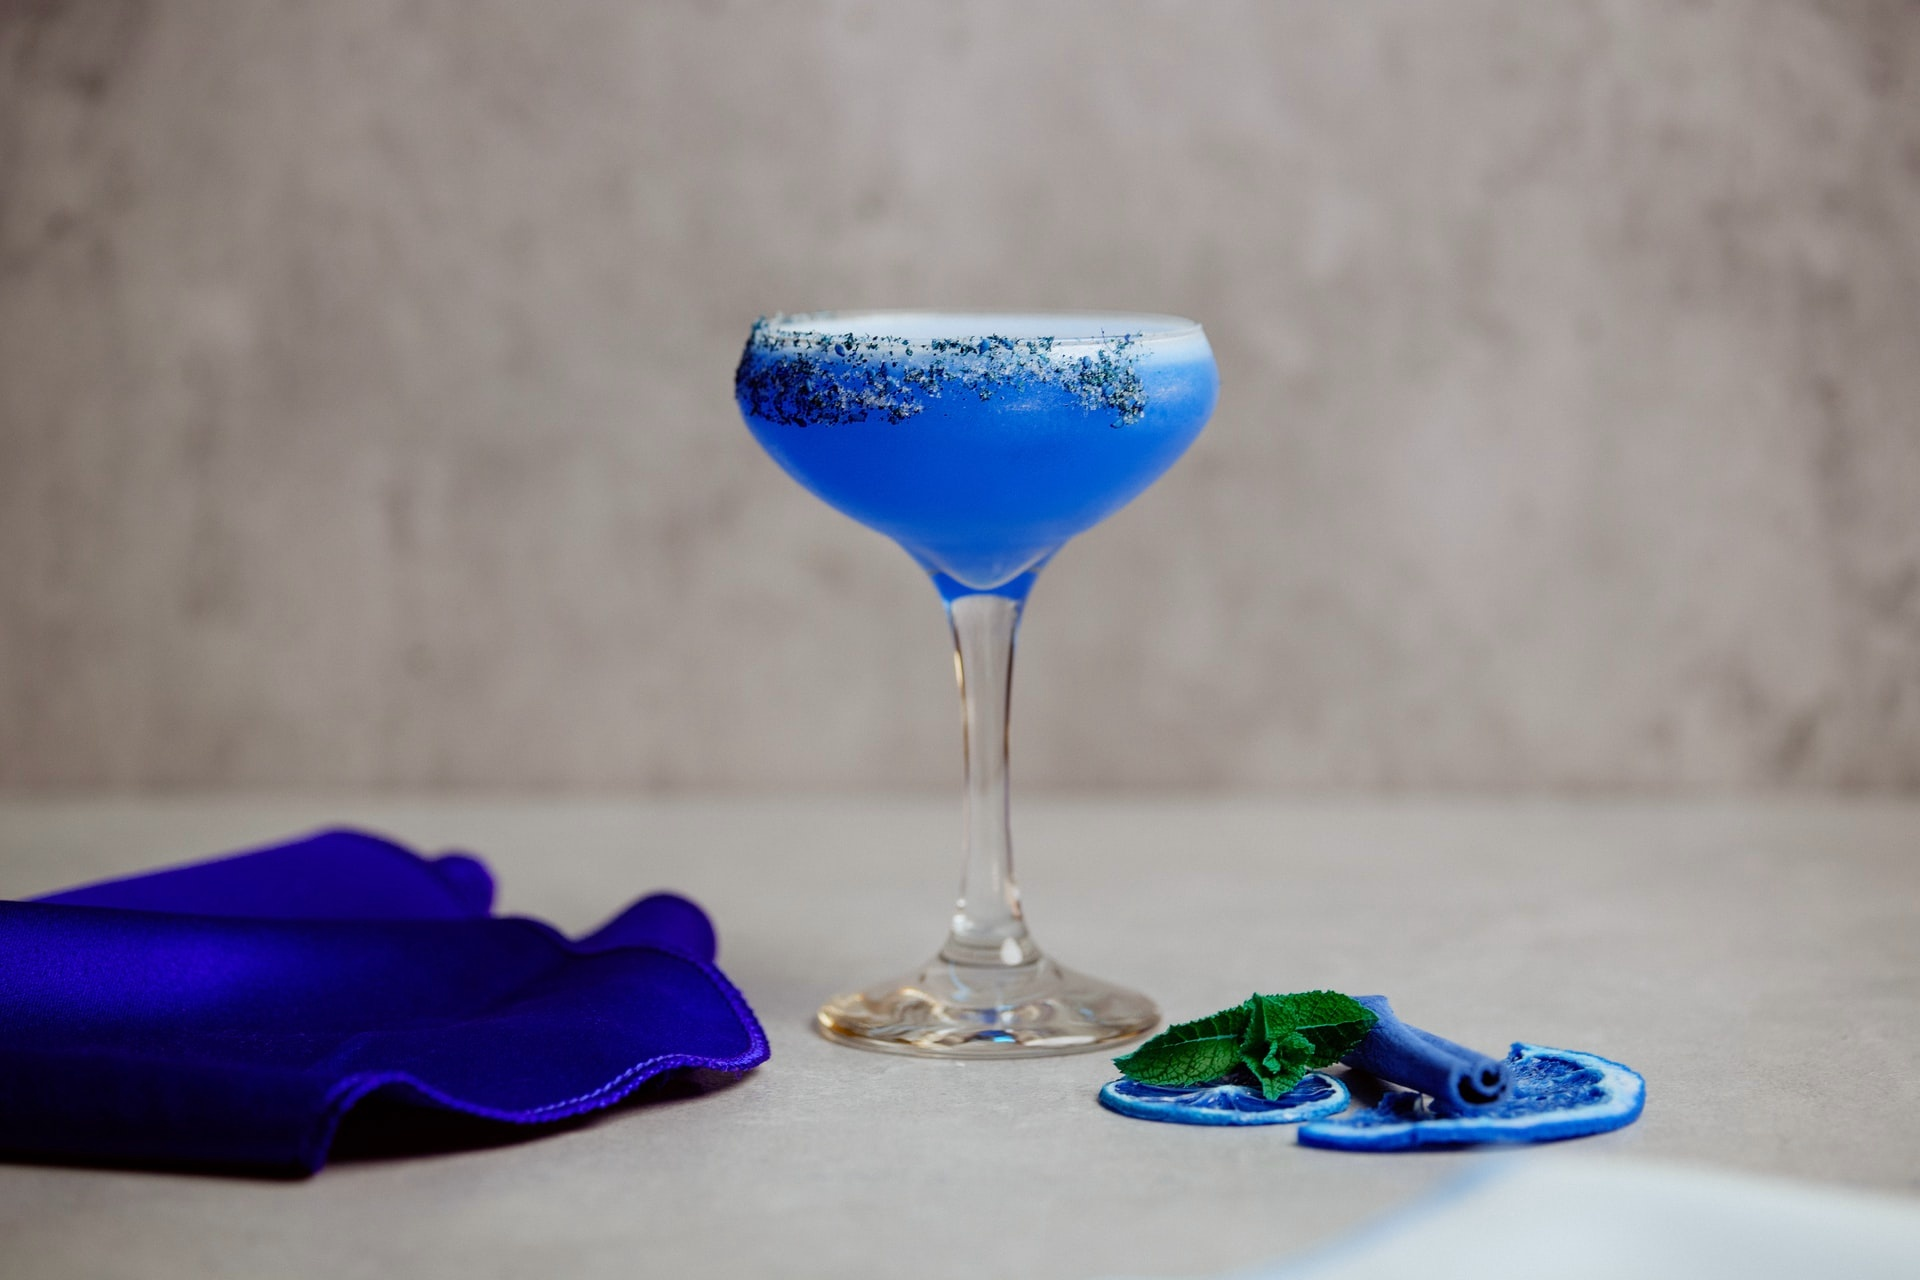
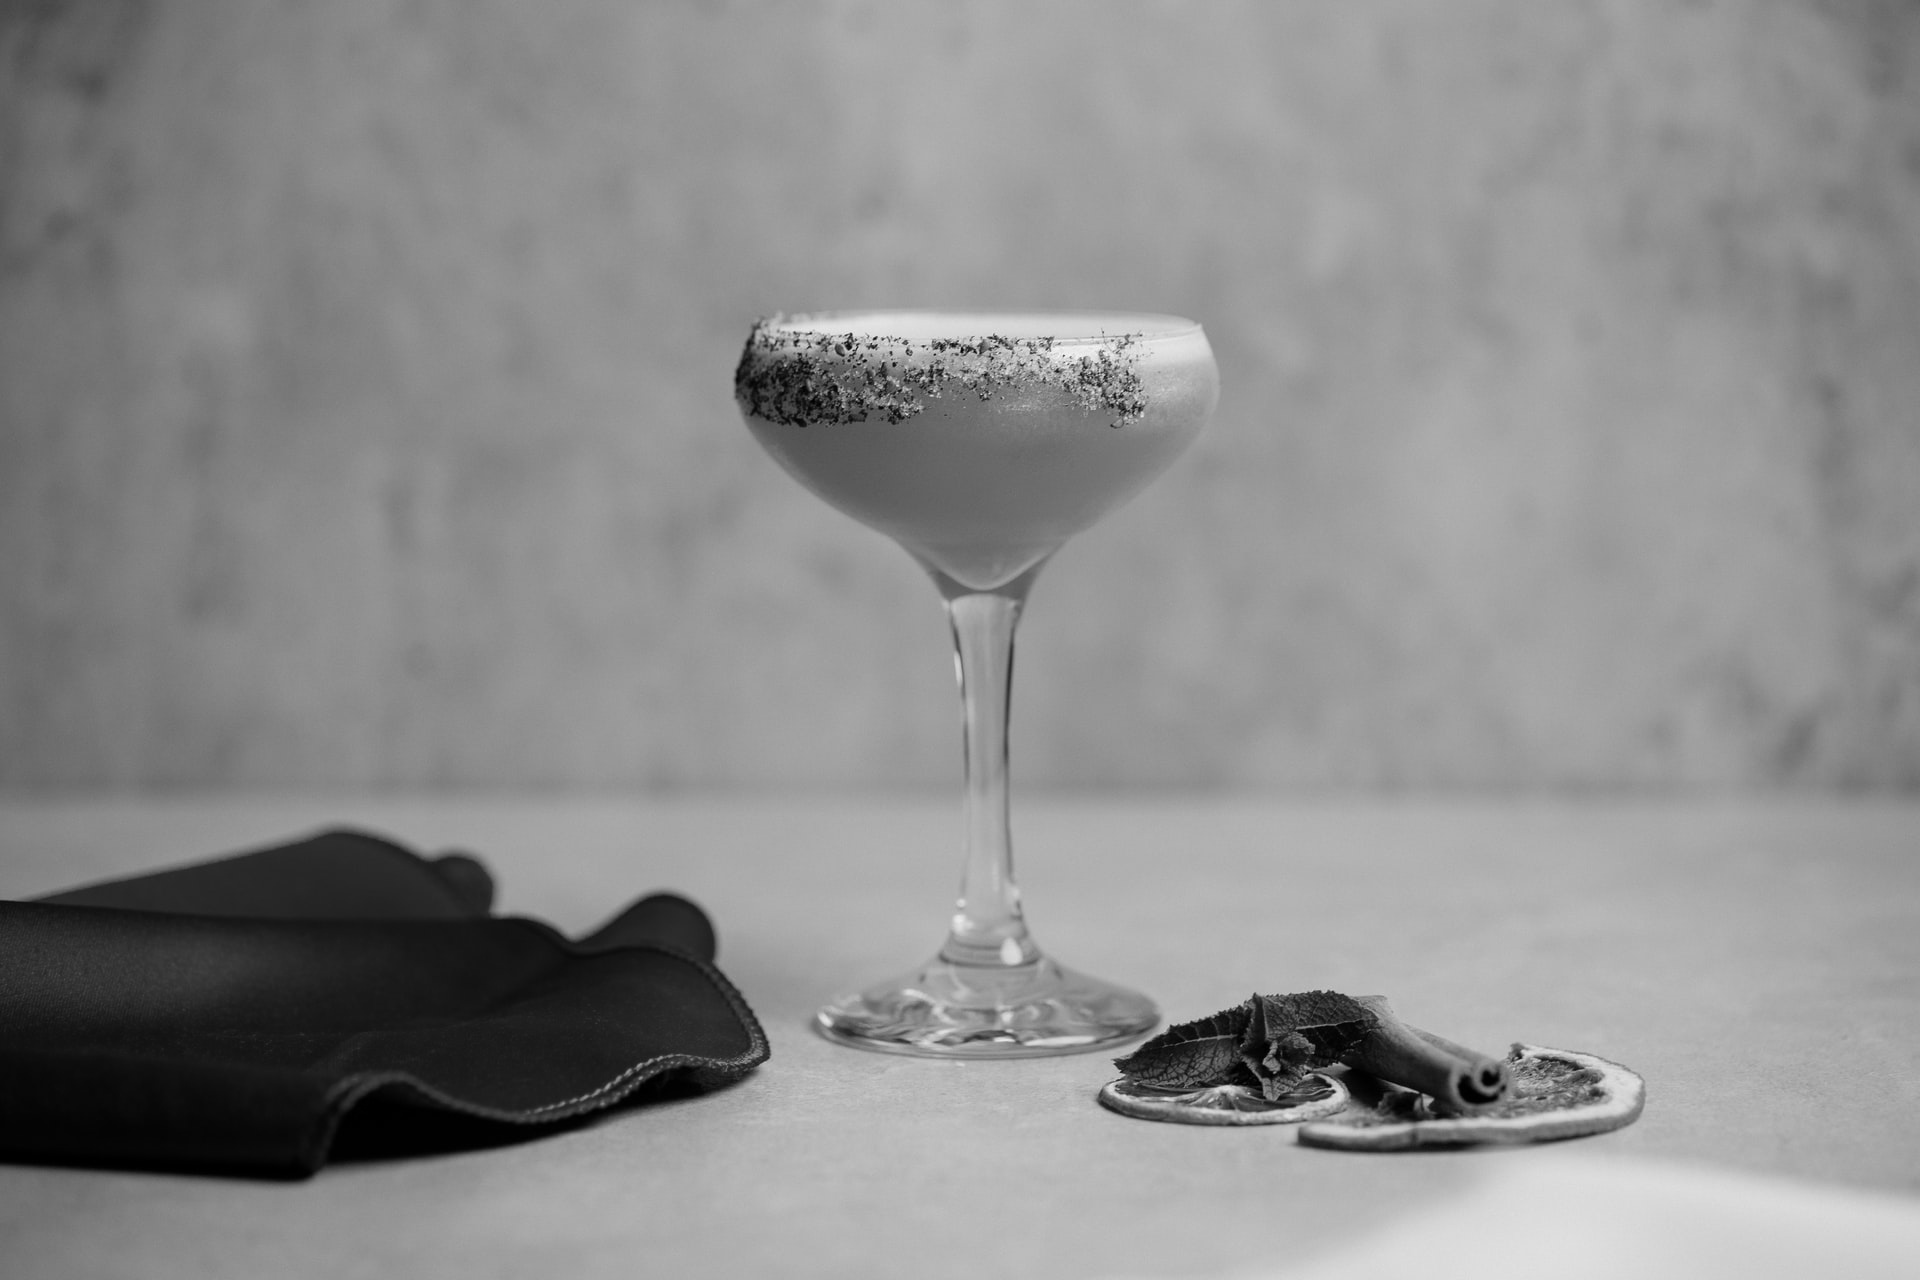
grayscale, threshold, rotate, resize, crop

diff --git a/cv/read_img.py b/cv/read_img.py
@@ -1,8 +1,38 @@
 import cv2 as cv
 image = cv.imread("images/img.jpg")
+
+#1
 #bgr_image = cv.cvtColor(image, cv.COLOR_RGB2BGR)
-rgb_image = cv.cvtColor(image, cv.COLOR_BGR2RGB)
-cv.imwrite("output/img.jpg",rgb_image)
-# cv.imshow("Image", rgb_image)
-# cv.waitKey(0)
-# cv.destroyAllWindows()
+
+#2
+#rgb_image = cv.cvtColor(image, cv.COLOR_BGR2RGB)
+
+#3
+#cropped = image[10:500, 500:2000]
+
+#4
+# scale_percent = 20 # percent of original size
+# width = int(img.shape[1] * scale_percent / 100)
+# height = int(img.shape[0] * scale_percent / 100)
+# dim = (width, height)
+# resized = cv.resize(img, dim, interpolation = cv.INTER_AREA)
+
+#5
+# (h, w, d) = image.shape
+# center = (w // 2, h // 2)
+# M = cv.getRotationMatrix2D(center, 180, 1.0)
+# rotated = cv.warpAffine(image, M, (w, h))
+
+
+#6
+gray_image = cv.cvtColor(image, cv.COLOR_BGR2GRAY)
+ret, threshold_image = cv.threshold(image, 150, 255, 0)
+cv.imwrite("output/img.jpg",gray_image)
+cv.imwrite("output/img2.jpg",threshold_image)
+
+
+def viewImage(image, name_of_window):
+    cv.namedWindow(name_of_window, cv.WINDOW_NORMAL)
+    cv.imshow(name_of_window, image)
+    cv.waitKey(0)
+    cv.destroyAllWindows()
